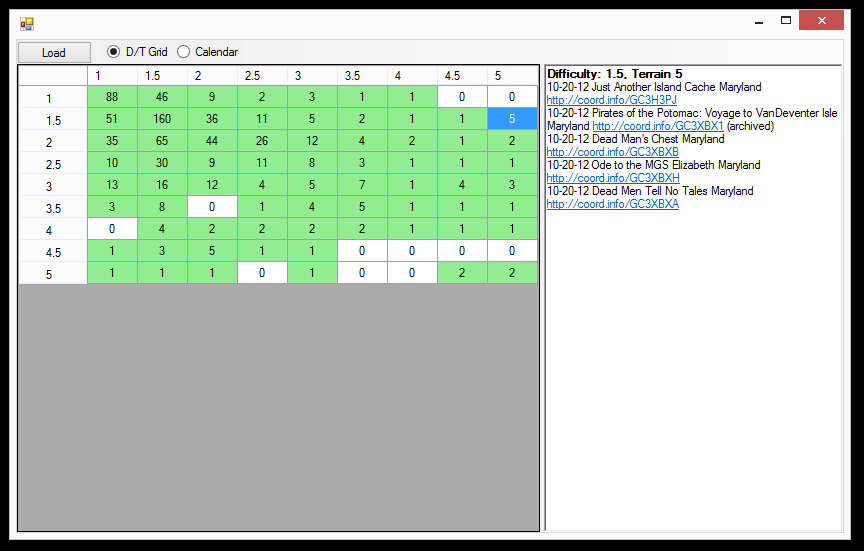
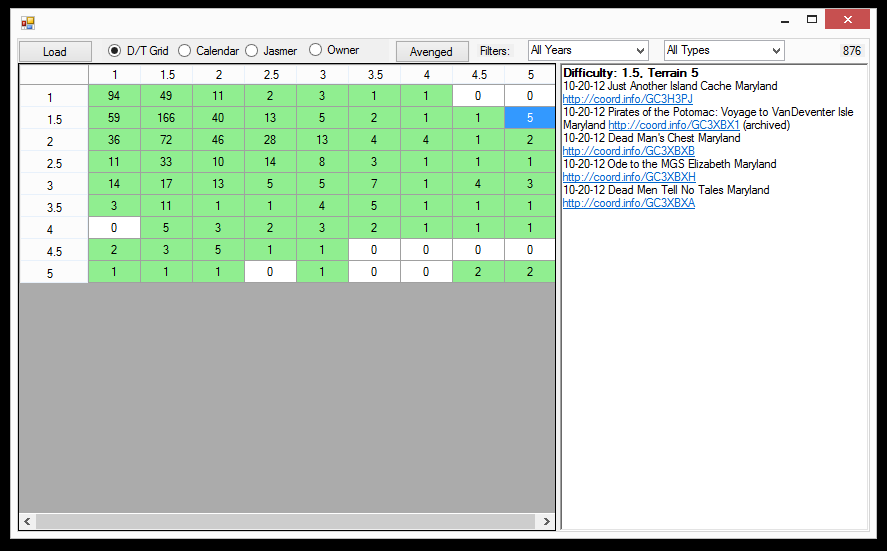
upated readme

Changed region(s): [[0.0, 0.0, 1.0, 0.9873]]

diff --git a/README.md b/README.md
@@ -5,7 +5,9 @@ This Windows program grids based on your finds.  The difference is that each gri
  * Difficulty/Terrain grid.  Click on a square for a list of all caches found with that DT rating.  
  * Finds by day Calendar.  Click on day for a list of your finds on that date, through the years.
  * Jasmer grid, which gives you all finds organized by the month the geocache was placed. 
- * Avenged DNF's, a simple list of all finds for which you previously posted a "Didn't find" log entry.  (no grid)
+ * Geocaches sorted by Owner
+ * ANY of the above can be filtered by either year found, or geocache type.  A count of currently shown caches is displayed.
+ * Avenged DNF's (not filtered), a simple list of all finds for which you previously posted a "Didn't find" log entry.  (no grid)
  
 ![screen shot](https://raw.githubusercontent.com/mmendelson222/geocaching-fizzy/master/images/fizzy.png)
 
@@ -18,7 +20,7 @@ This Windows program grids based on your finds.  The difference is that each gri
 
 NOTES: 
 * If you've marked a cache as found twice, only the first time will be counted.   This behavior seems to differ from the calendar on geocaching.com.
-* Unlike the calendar on geocaching.com, this calendar does NOT include lab caches (since they're not included in your "my finds" query).  The D/T grid should be identical.
+* Unlike the calendar on geocaching.com, this calendar does NOT include lab caches (since they're not included in your "my finds" query).  The D/T grid should be identical to the one on geocaching.com. 
 
 
 ## Developers 
